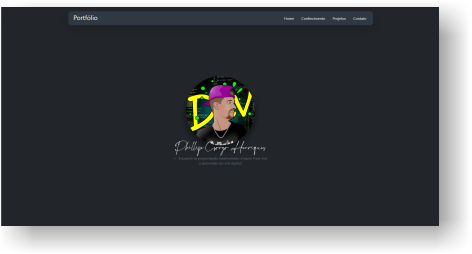
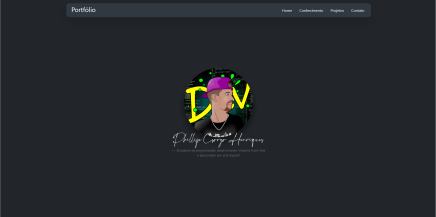
atualização das imagens de portifólio + classe sombras

Changed region(s): [[0.0, 0.0, 1.0, 1.0], [0.3578, 0.3041, 0.6261, 0.6636], [0.4174, 0.6912, 0.5963, 0.7189]]

diff --git a/index.html b/index.html
@@ -116,17 +116,14 @@
             <div class="container">
                 <div class="text-center">
                     <h2 class="section-heading text-uppercase">Projetos</h2>
-                    <h3 class="section-subheading text-muted">Conheça alguns dos meus projetos de Front-End.</h3>
+                    <h3 class="section-subheading-projetos text-muted">Conheça alguns dos meus projetos de Front-End.</h3>
                 </div>
                 <div class="row">
                     <div class="col-lg-4 col-sm-6 mb-4">
                         <!-- Portfolio item 1-->
-                        <div class="portfolio-item">
-                            <a class="portfolio-link" data-bs-toggle="modal" href="#portfolioModal1">
-                                <div class="portfolio-hover">
-                                    <div class="portfolio-hover-content"><i class="fas fa-plus fa-3x"></i></div>
-                                </div>
-                                <img class="img-fluid" src="assets/img/portfolio/1.jpg" alt="..." />
+                        <div class="portfolio-item texto-no-centro">
+                            <a class="portfolio-link" data-bs-toggle="modal" href="#portfolioModal1">                               
+                                <img class="img-fluid sombra" src="assets/img/portfolio/pagina1.png" alt="..." />
                             </a>
                             <div class="portfolio-caption">
                                 <div class="portfolio-caption-heading">CSO Energia</div>
@@ -136,12 +133,9 @@
                     </div>
                     <div class="col-lg-4 col-sm-6 mb-4">
                         <!-- Portfolio item 2-->
-                        <div class="portfolio-item">
+                        <div class="portfolio-item texto-no-centro">
                             <a class="portfolio-link" data-bs-toggle="modal" href="#portfolioModal2">
-                                <div class="portfolio-hover">
-                                    <div class="portfolio-hover-content"><i class="fas fa-plus fa-3x"></i></div>
-                                </div>
-                                <img class="img-fluid" src="assets/img/portfolio/2.jpg" alt="..." />
+                                <img class="img-fluid sombra" src="assets/img/portfolio/pagina2.png" alt="..." />
                             </a>
                             <div class="portfolio-caption">
                                 <div class="portfolio-caption-heading">Daltônika</div>
@@ -151,12 +145,9 @@
                     </div>
                     <div class="col-lg-4 col-sm-6 mb-4">
                         <!-- Portfolio item 3-->
-                        <div class="portfolio-item">
+                        <div class="portfolio-item texto-no-centro">
                             <a class="portfolio-link" data-bs-toggle="modal" href="#portfolioModal3">
-                                <div class="portfolio-hover">
-                                    <div class="portfolio-hover-content"><i class="fas fa-plus fa-3x"></i></div>
-                                </div>
-                                <img class="img-fluid" src="assets/img/portfolio/3.jpg" alt="..." />
+                                <img class="img-fluid sombra" src="assets/img/portfolio/pagina3.png" alt="..." />
                             </a>
                             <div class="portfolio-caption">
                                 <div class="portfolio-caption-heading">Primeiro portfólio</div>
@@ -164,14 +155,23 @@
                             </div>
                         </div>
                     </div>
-                    <div class="col-lg-4 col-sm-6 mb-4 mb-lg-0">
+                    <div class="col-lg-4 col-sm-6 mb-4">
                         <!-- Portfolio item 4-->
-                        <div class="portfolio-item">
+                        <div class="portfolio-item texto-no-centro">
                             <a class="portfolio-link" data-bs-toggle="modal" href="#portfolioModal4">
-                                <div class="portfolio-hover">
-                                    <div class="portfolio-hover-content"><i class="fas fa-plus fa-3x"></i></div>
-                                </div>
-                                <img class="img-fluid" src="assets/img/portfolio/4.jpg" alt="..." />
+                                <img class="img-fluid sombra" src="assets/img/portfolio/pagina4.png" alt="..." />
+                            </a>
+                            <div class="portfolio-caption">
+                                <div class="portfolio-caption-heading">Segundo portifólio</div>
+                                <div class="portfolio-caption-subheading text-muted">Minha segunda página pessoal, com outro estilo.</div>
+                            </div>
+                        </div>
+                    </div>
+                    <div class="col-lg-4 col-sm-6 mb-4">
+                        <!-- Portfolio item 4-->
+                        <div class="portfolio-item texto-no-centro">
+                            <a class="portfolio-link" data-bs-toggle="modal" href="#portfolioModal4">
+                                <img class="img-fluid sombra" src="assets/img/portfolio/pagina5.png" alt="..." />
                             </a>
                             <div class="portfolio-caption">
                                 <div class="portfolio-caption-heading">Segundo portifólio</div>

diff --git a/css/styles.css b/css/styles.css
@@ -10912,6 +10912,22 @@ p {
   margin-bottom: 8rem;
 }
 
+.section-subheading-projetos {
+  font-size: 1rem;
+  font-weight: 400;
+  font-style: italic;
+  font-family: "Roboto Slab", -apple-system, BlinkMacSystemFont, "Segoe UI", Roboto, "Helvetica Neue", Arial, sans-serif, "Apple Color Emoji", "Segoe UI Emoji", "Segoe UI Symbol", "Noto Color Emoji";
+  margin-bottom: 5rem;
+}
+
+.sombra {
+  box-shadow: 0 4px 50px 0 rgba(0, 0, 0, 0.2), 0 6px 20px 0 rgba(0, 0, 0, 0.5);
+}
+
+.texto-no-centro {
+  text-align: center;
+}
+
 #conhecimento {
   margin-bottom: 10rem;
 }
